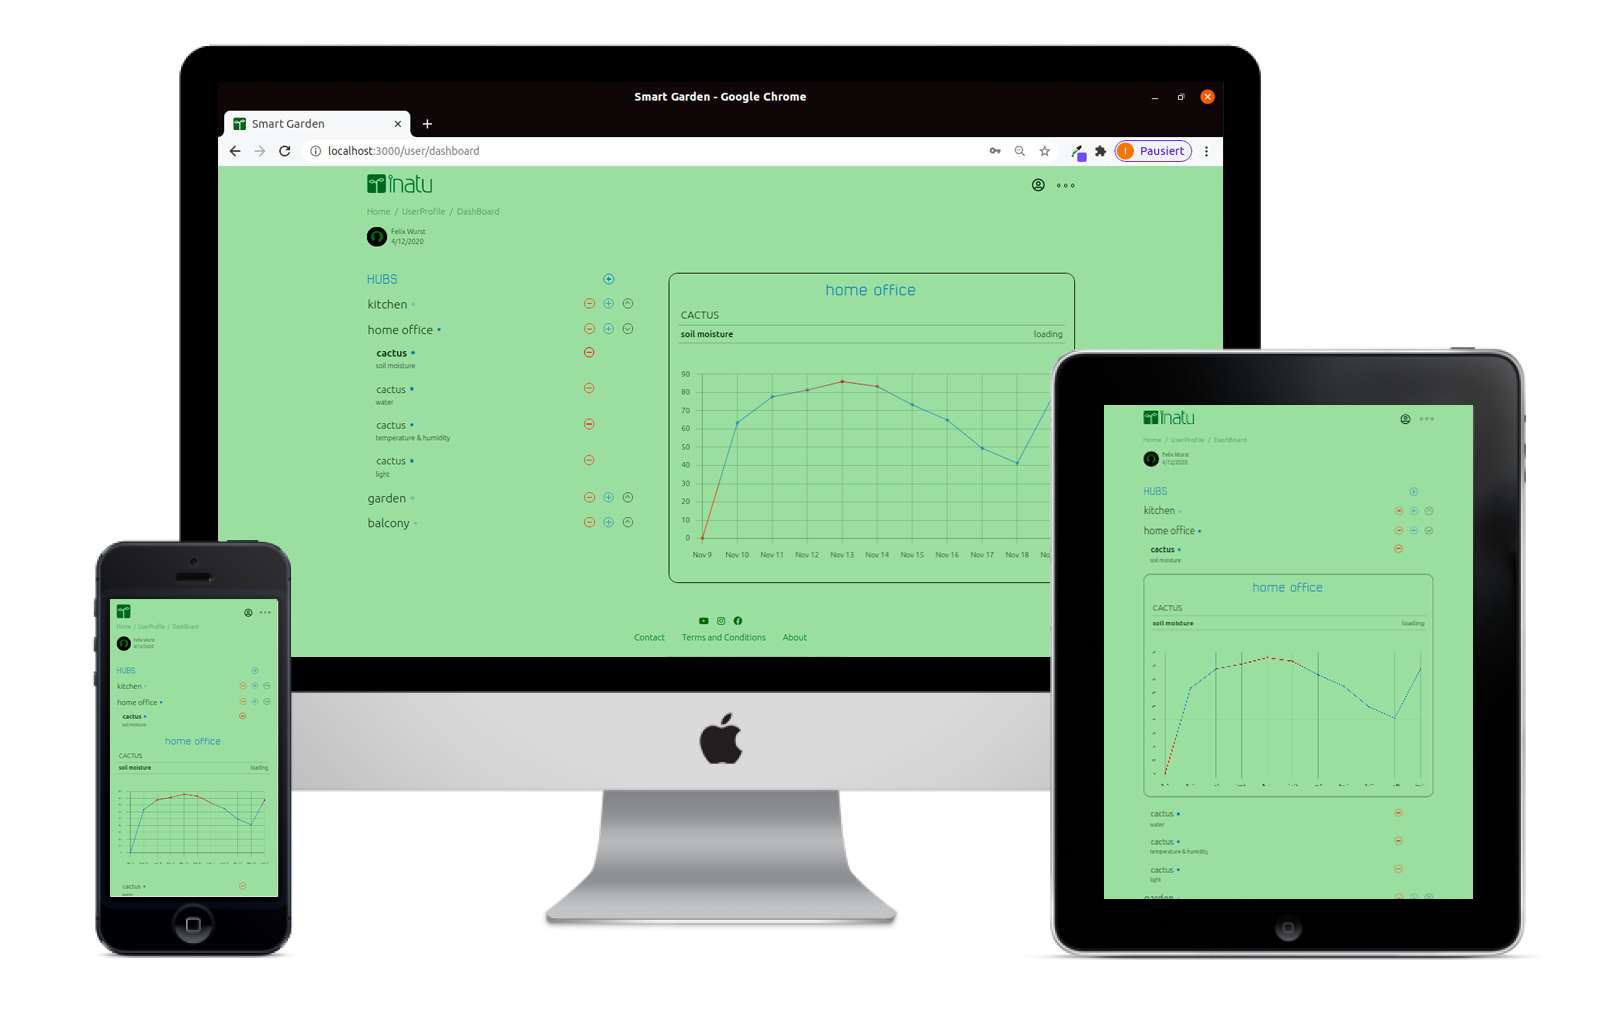
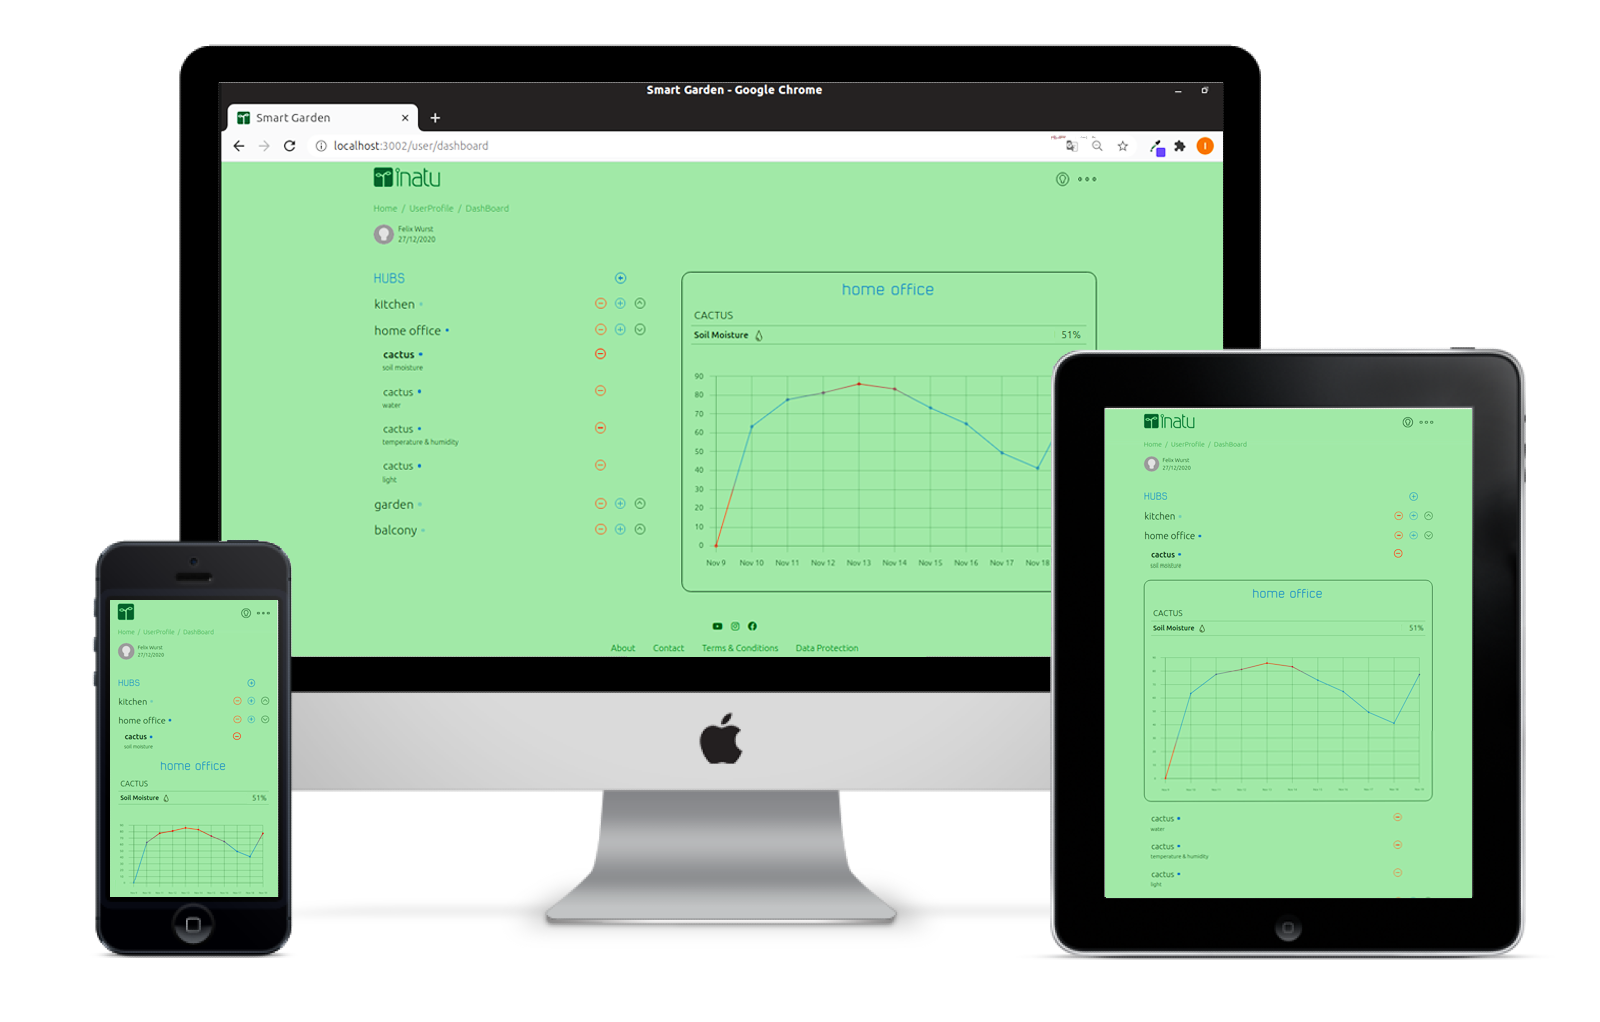
optimized sizing

diff --git a/public/src/components/UserProfile.js b/public/src/components/UserProfile.js
@@ -12,11 +12,13 @@ import {Container, Row, Col, Button, Input, Form, Label, FormGroup, Breadcrumb, 
 import PopUpModal from './PopUpModal';
 // services
 import {editUserPost, getUserPost} from '../services/api';
+import {useWindowDimension} from '../hooks/useWindowDimension';
 
 /* ********************************************************* COMPONENT ********************************************************* */
 const UserProfile = props => {
 
     const imageInpRef = useRef();
+    const [width] = useWindowDimension();
 
     const initialState = {
         userImg: '',
@@ -120,7 +122,7 @@ const UserProfile = props => {
 
 /* ********************************************************* RETURN ********************************************************* */
     return (
-        <Container className="p-0 pt-4 mt-5">
+        <Container className="p-4 p-md-0 pt-md-4 mt-5">
 {/* ********************************************************* MODAL ********************************************************* */}
             <PopUpModal 
                 className="bg-danger" 
@@ -146,17 +148,14 @@ const UserProfile = props => {
             </Col>
 {/* ********************************************************* HEADLINE ********************************************************* */}
             <Row>
-                <Col xs={6} md={9}>
-                    <h1 className="text-trans mb-4">Hello {props.user.firstName} {props.user.lastName},</h1>
-                    <h3 className="text-trans mb-4">welcome to your profile page.</h3>
-                    <br />
-                    <p className="text-trans mb-4">Here you can edit your personal settings:</p>
+                <Col xs={8}>
+                    <h3 className="text-trans mb-4">Hello {props.user.firstName} {props.user.lastName},</h3>
                 </Col>
-                <Col className="float-right" xs={6} md={3}>
+                <Col className="avatar" xs={4}>
                     <img 
                         src={state.userImg ? state.userImg : '/src/imgs/dummy.svg'}
                         alt=""
-                        style={{width: '150px', height: '150px', borderRadius: '50%'}}
+                        style={width < 560 ?{width: '70px', height: '70px', borderRadius: '50%'}:{width: '150px', height: '150px', borderRadius: '50%'}}
                     /> 
                     <br />
                     <br />

diff --git a/public/src/components/Login.js b/public/src/components/Login.js
@@ -161,11 +161,11 @@ const Login = props => {
                 {state.modalContent}
             </PopUpModal>
             <Container className="pt-5 mt-5">
-                <h1 className="col-sm-12 col-md-6 offset-md-3 text-trans mb-4 mt-5 px-0 px-md-3">Login</h1>
+                <h1 className="col-sm-12 col-md-6 offset-md-3 text-trans mb-4 px-0 px-md-3">Login</h1>
                 <h5 className="col-sm-12 col-md-6 offset-md-3 text-trans mb-4 px-0 px-md-3">
                     Sign in to access your device management.
                 </h5>
-                <Form className="pb-md-0 pb-5">
+                <Form className="pb-md-0 pb-3">
                     <Row xs="1" sm="1">
                         <Col sm="12" md={{size: 6, offset: 3}}>
                             <FormGroup className="mb-1 text-left">

diff --git a/public/public/css/style.scss b/public/public/css/style.scss
@@ -222,7 +222,9 @@ body {
       // opacity: 1;
       // @include transitionOpacity();
       // }
+    // fader
     & > div {
+      height: fit-content;
       // change color green
       &.color-5 {
         @include changeBGColor($color-5);
@@ -439,15 +441,15 @@ a {
   }
 }
 // color-5
-.color-5 ~ div {
-  background-color: $color-5 !important;
-  & a {
-    &:hover,
-    &:active {
-      color: $color-8 !important;
-    }
-  }
-}
+// .color-5 ~ div {
+//   background-color: $color-5 !important;
+//   & a {
+//     &:hover,
+//     &:active {
+//       color: $color-8 !important;
+//     }
+//   }
+// }
 
 /* *********************************************************** MEDIA QUERY ********************************************************* */
 // Extra small devices (portrait phones, less than 576px)

diff --git a/public/public/css/style.css b/public/public/css/style.css
@@ -91,6 +91,12 @@ body #root {
   height: 100vh;
 }
 
+body #root > div {
+  height: -webkit-fit-content;
+  height: -moz-fit-content;
+  height: fit-content;
+}
+
 body #root > div.color-5 {
   background-color: #9ac992 !important;
   color: #1d2c22 !important;
@@ -309,14 +315,6 @@ a {
 
 a:hover, a:active {
   color: #00a8e6 !important;
-}
-
-.color-5 ~ div {
-  background-color: #9ac992 !important;
-}
-
-.color-5 ~ div a:hover, .color-5 ~ div a:active {
-  color: #007aa7 !important;
 }
 
 /* *********************************************************** MEDIA QUERY ********************************************************* */

diff --git a/public/public/css/_footer.scss b/public/public/css/_footer.scss
@@ -1,10 +1,12 @@
 #root > div {
-    & > div:last-child a {
-        color: $color-3 !important;
-        font-size: $font-size-4;
-    }
-    & > div:last-child > div:first-child a {
-        font-size: $font-size-3;
+    & > div:last-child {
+        & a {
+            color: $color-3 !important;
+            font-size: $font-size-4;
+        }
+        & > div:first-child a {
+            font-size: $font-size-3;
+        }
     }
     &.color-5 {
         & > div:last-child a {
